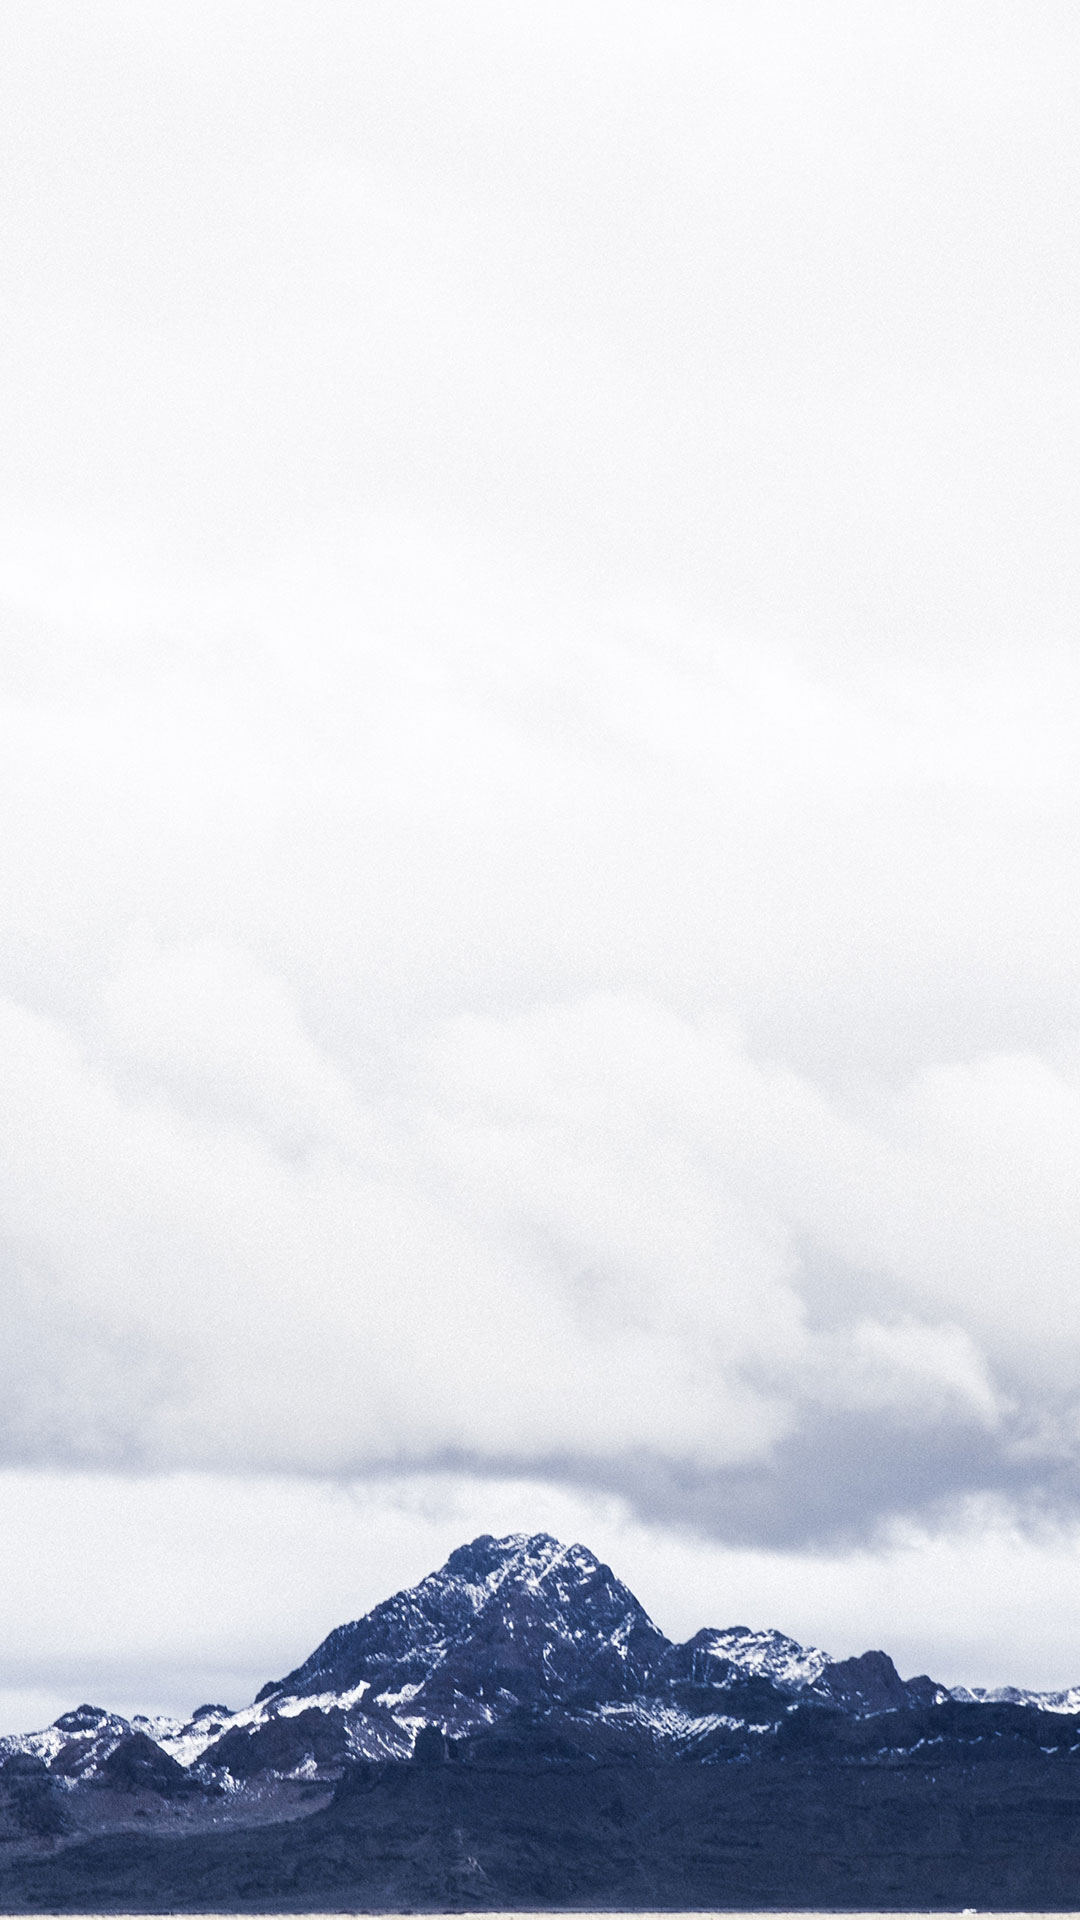
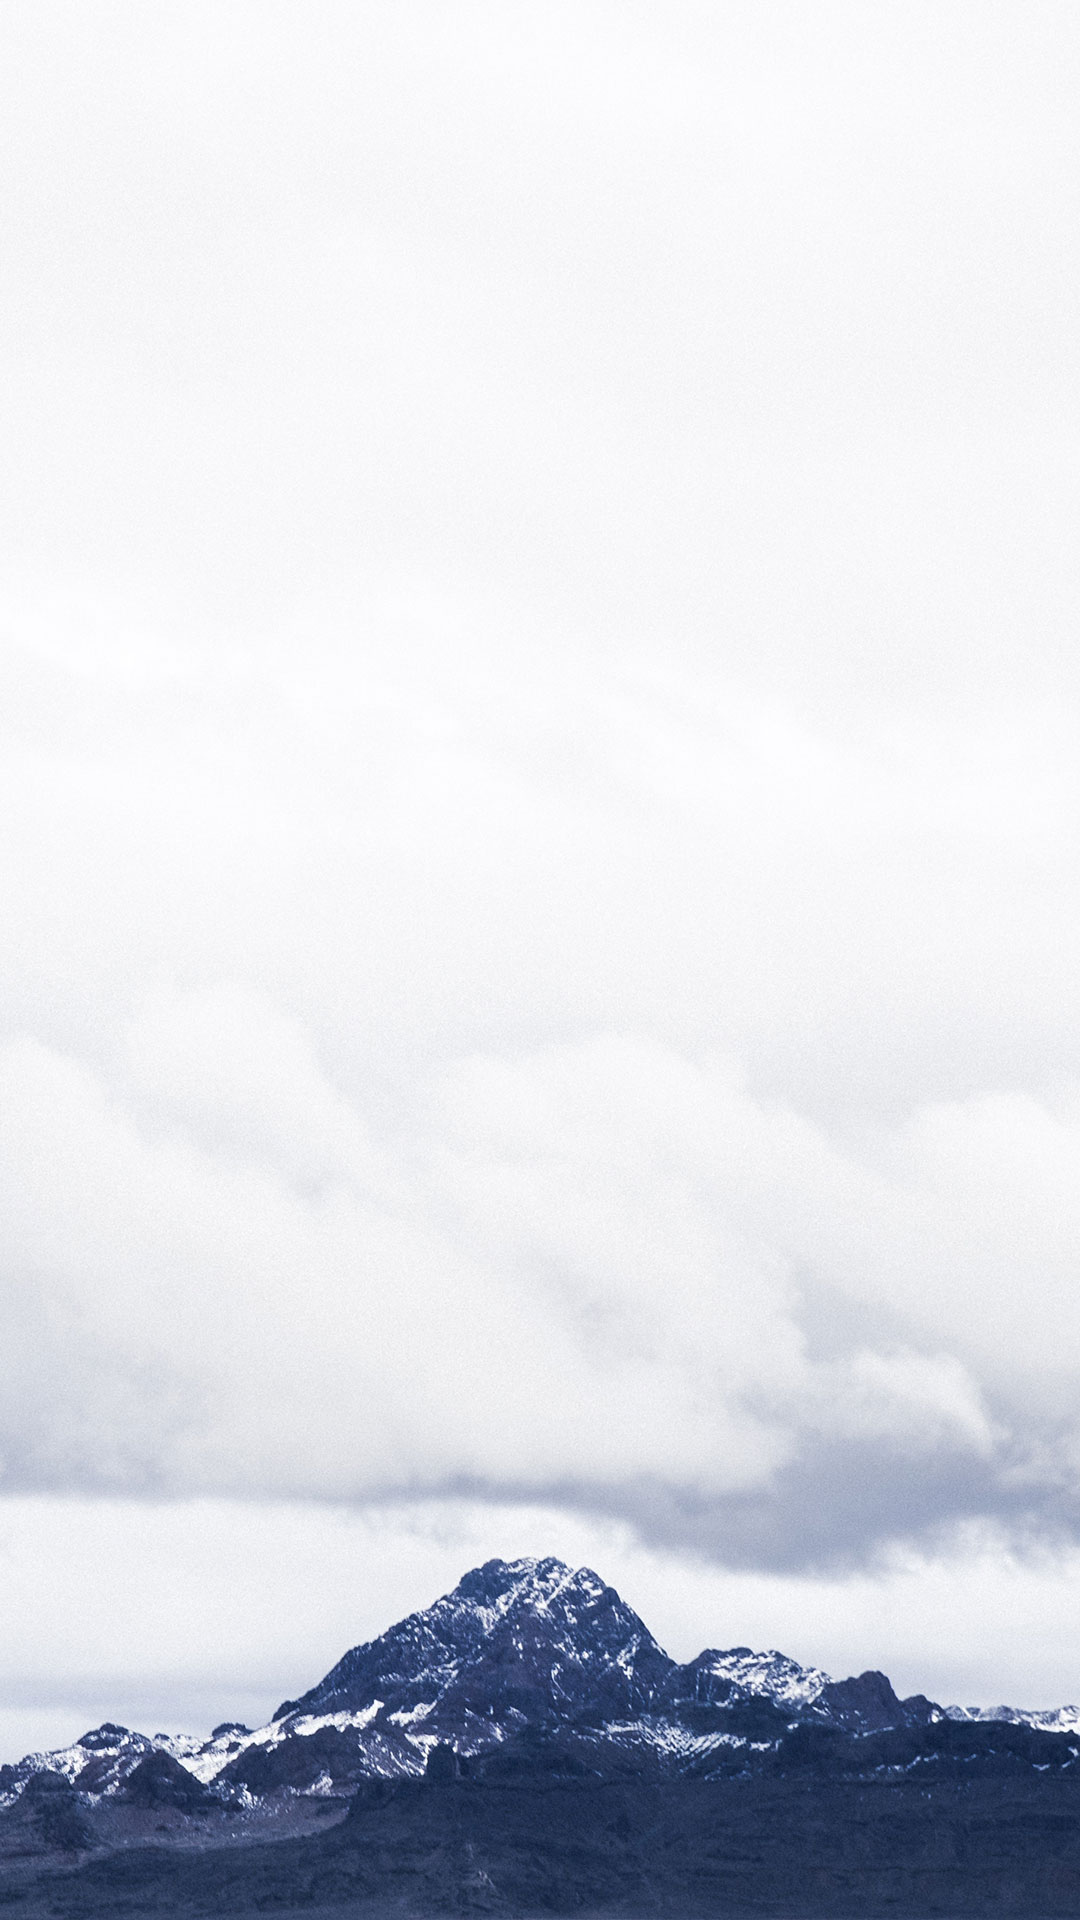
Flex-Box UI

Changed region(s): [[0.0, 0.7188, 1.0, 1.0]]

diff --git a/resources/flex.css b/resources/flex.css
@@ -1,0 +1,61 @@
+@charset "UTF-8";
+/* Flex-Box UI */
+
+.page{position:relative;height:100%;width:100%;}
+[data-ui=view]{
+    display:-webkit-box;display:-webkit-flex;display:flex;
+    -webkit-box-orient:vertical;box-orient:vertical;-webkit-box-direction:normal;
+    box-direction:normal;-webkit-flex-direction:column;
+    flex-direction:column;
+    position:absolute;left:0;top:0;z-index:0;overflow-x:hidden;
+    min-height:100%;height:100%;width:100%;
+}
+
+
+.flex{display:-webkit-box;display:-webkit-flex;display:flex;}
+.flex-ver{-webkit-box-orient:vertical;-webkit-box-direction:normal;-webkit-flex-direction:column;flex-direction:column;}
+.flex-item,.flex-nav .nav-title,.flex-tab li,
+.flex-search .input{-webkit-box-flex:1;-webkit-flex:1;flex:1;width:0%;}
+
+.tool-bar{background:#fff;height:45px;line-height:45px;text-align:center;box-shadow:0 1px 3px rgba(0,0,0,.13);position:relative;z-index:1}
+footer.tool-bar{box-shadow:0 0 3px rgba(0,0,0,.24);}
+.cont-box{overflow:auto;background:#e2e2e2;width:100%;height:auto;-webkit-overflow-scrolling:touch;}
+
+.f-icon{display:block;width:20px;height:20px;background:#31bbee;flex:none;}
+.f-btn{border:0;width:50px;height:25px;text-align:center;background:#31bbee;margin:10px;line-height:25px;color:#fff;flex:none;}
+
+/*导航*/
+.flex-nav{height:44px;line-height:44px;-webkit-box-align:center;-webkit-align-items:center;align-items:center;-webkit-box-pack:justify;-webkit-justify-content:space-between;justify-content:space-between;}
+.flex-nav .nav-title{text-align:center;line-height:1.2;}
+.flex-nav .nav-title p{color:#aaa;font-size:12px;}
+
+/* tab 栏 */
+.flex-tab{width:100%;height:44px;line-height:44px;-webkit-box-pack:justify;-webkit-justify-content:space-between;justify-content:space-between;-webkit-box-align:center;-webkit-align-items:center;align-items:center;}
+.flex-tab li{position:relative;display:block;color:#777;font-size:16px;border:1px solid #ddd;border-left:none;}
+.flex-tab li:last-child{border-right:none;}
+.flex-tab li a{display:block;width:100%;height:100%;text-align:center;text-decoration:none;}
+.flex-tab li .tab-title{display:block;width:100%;text-align:center;font-size:16px;color:#777;}
+.flex-tab li.current .tab-title{color:#259ade;}
+
+/* 搜索 */
+.flex-search{-webkit-box-align:center;-webkit-align-items:center;align-items:center;-webkit-box-pack:justify;-webkit-justify-content:space-between;justify-content:space-between;background:#f1f1f1;border-bottom:1px solid #ccc;}
+.flex-search .input{border:1px solid #aaa;margin-left:10px;padding:0;height:26px;}
+.flex-search .input input{border:none;width:100%;height:100%;}
+.flex-search span{display:block;flex:none;padding:0;padding-right:0;width:50px;text-align:center;}
+.flex-search .f-icon{margin-left:10px;}
+
+/* 列表 */
+.flex-simple{-webkit-box-align:center;-webkit-align-items:center;align-items:center;background:#fff;border-bottom:1px solid #ccc;padding:10px 15px;}
+.s-img{background:#31bbee;margin-right:10px;width:50px;height:50px;}
+.s-tit{font-size:20px;font-weight:bold;}
+.s-tit,.s-desc{line-height:1.2;}
+
+/* 消息提示 */
+.flex-info{-webkit-box-align:start;-webkit-align-items:flex-start;align-items:flex-start;background:#f2f2f2;border-bottom:1px solid #ddd;border-top:1px solid #ddd;margin:10px 0;padding:10px;}
+.flex-info .f-icon{margin:0 15px 0 10px;}
+.flex-info-center{-webkit-box-align:center;-webkit-align-items:center;align-items:center;}
+
+/* 垂直居中 */
+.flex-centerbox{width:100%;height:100%;background:#fafafa;-webkit-box-pack:center;-webkit-justify-content:center;justify-content:center;-webkit-box-align:center;-webkit-align-items:center;align-items:center;border-top:1px solid #ddd;border-bottom: 1px solid #ddd;padding:10px 0;margin:10px 0;}
+.center-cont{display:block;background:#ddd;text-align:center;padding:20px;margin:10px;}
+

diff --git a/frameworks/jqt.js b/frameworks/jqt.js
@@ -72,7 +72,7 @@
         selector: ".slideup"
       }, {
         name: "slideleft",
-        selector: ".slideleft, .slide, #jqt > * > ul li a"
+        selector: ".slideleft"
       }
     ];
 
@@ -616,7 +616,7 @@
           }
           navigationEndHandler = function(event) {
             if (support.animationEvents && animation && _this.settings.useAnimations) {
-              fromPage.off("webkitAnimationEnd", navigationEndHandler);
+              fromPage.off("animationend", navigationEndHandler);
               fromPage.removeClass(finalAnimationName + " out");
               if (finalAnimationName) {
                 toPage.removeClass(finalAnimationName);
@@ -678,7 +678,7 @@
               finalAnimationName = _this.settings.defaultAnimation;
             }
             console.warn("finalAnimationName:", finalAnimationName);
-            fromPage.on("webkitAnimationEnd", navigationEndHandler);
+            fromPage.on("animationend", navigationEndHandler);
             $body.addClass("animating" + is3d);
             toPage.addClass(finalAnimationName + " in current");
             fromPage.removeClass("current").addClass(finalAnimationName + " out");

diff --git a/resources/app.css b/resources/app.css
@@ -4,9 +4,17 @@ Xu.App.css
 
 @import url(base.css);
 @import url(grids.css);
+@import url(flex.css);
+
+
+html,body,#jqt{height:100%;}
 
 /* launch image */
-.launch .launchimg{background:url(launch.jpg) no-repeat 50% 50%;background-size:cover;}
+.launch .launchimg{background:url(launch.jpg) no-repeat 0% 100%;background-size:cover;
+  height:100%;
+
+}
+/*
 
 .launch footer{overflow:hidden;background:#fff;box-shadow:0 -1px 0 rgba(0,0,0,.08);height:76px;}
 
@@ -27,5 +35,5 @@ Xu.App.css
   color:#999;
 }
 
-
+*/
 
